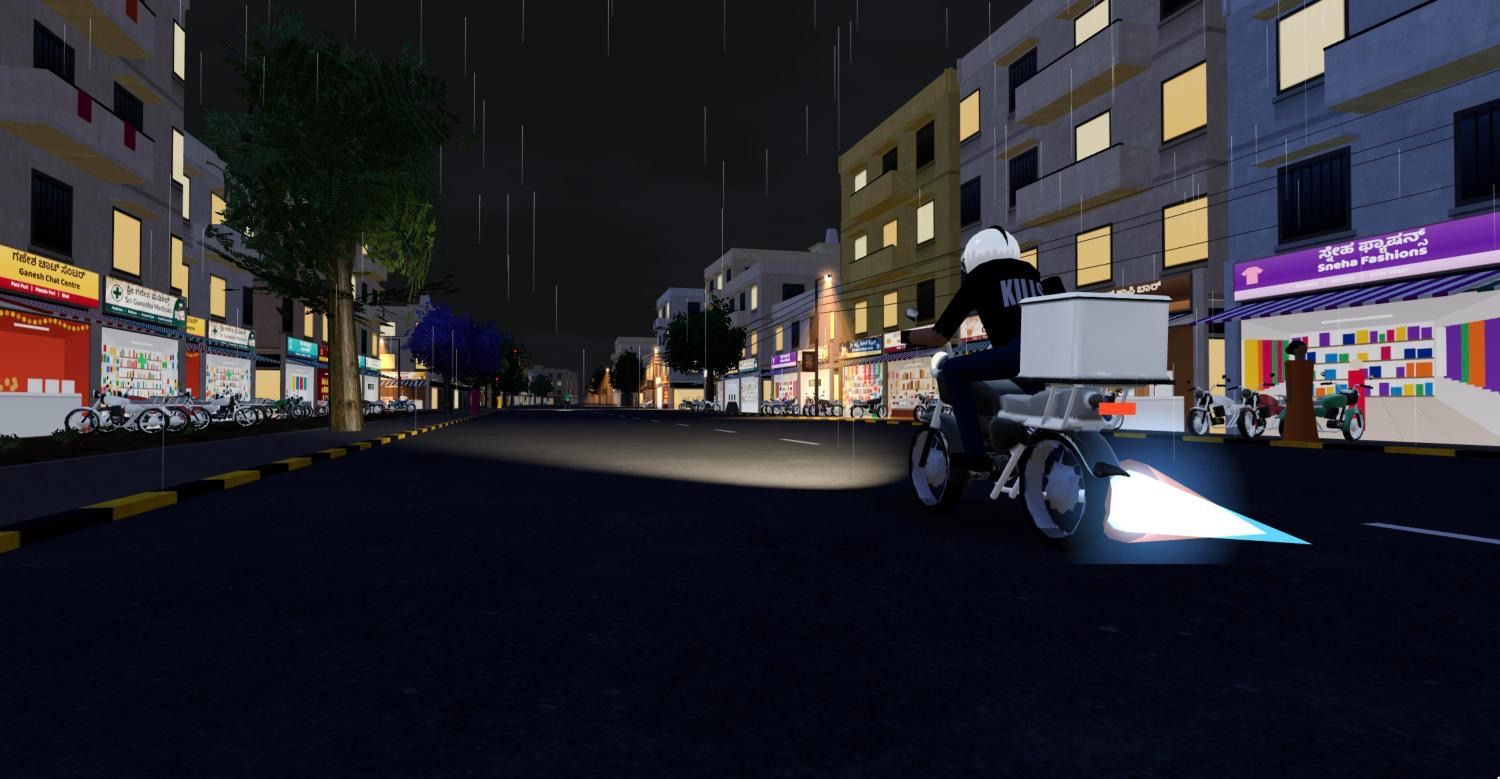
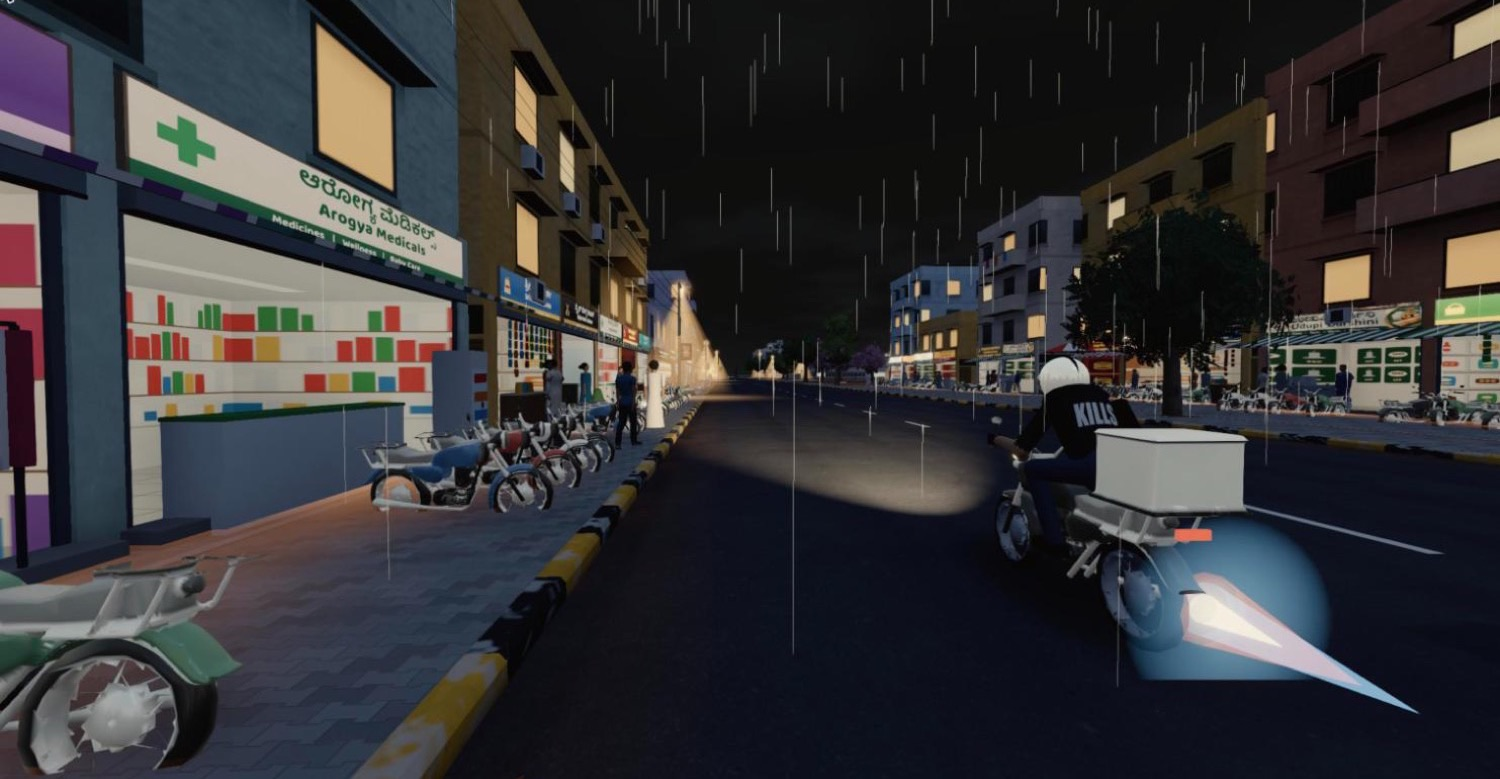
feat: add scooter rider model and Indian traffic vehicles with improved building variety and city kit placement

diff --git a/src/world/ShopPeople.tsx b/src/world/ShopPeople.tsx
@@ -1,9 +1,13 @@
-import { useEffect, useMemo } from 'react'
+import { useEffect, useMemo, useRef, useState } from 'react'
+import { useFrame } from '@react-three/fiber'
 import { useGLTF } from '@react-three/drei'
 import { getModel, TRAFFIC_MODELS_URL } from '../traffic/modelFiles'
 import { createWomanGeometry } from '../traffic/peopleShapes'
 import { People } from '../traffic/Traffic'
 import type { Pedestrian } from '../traffic/trafficLogic'
+import { livePlayer } from '../game/livePlayer'
+import { useGameStore } from '../game/gameStore'
+import { QUALITY_PRESETS } from '../game/qualitySettings'
 import type { ShopPerson } from './shopPeoplePlacement'
 
 /*
@@ -13,8 +17,22 @@ import type { ShopPerson } from './shopPeoplePlacement'
  * and sway, by the same shader as the walkers (`People` in Traffic.tsx).
  *
  * Only on the streets with the new ground for now (27th Main), so there are a
- * few dozen, not thousands: each is redrawn every frame.
+ * few dozen, not thousands: each is redrawn every frame. Even so, a person
+ * model is thousands of triangles, so only those near the rider are drawn: the
+ * list is picked again whenever the rider has moved `REFRESH` metres.
  */
+
+/** People are drawn this near the rider, in metres; on Low, nearer. */
+const REACH = 70
+const LOW_REACH = 45
+const REFRESH = 12
+
+type Seen = { x: number; z: number; reach: number }
+
+/** Whether the rider has moved far enough, or the reach changed, to pick again. */
+function hasMoved(seen: Seen, reach: number): boolean {
+  return seen.reach !== reach || Math.hypot(livePlayer.x - seen.x, livePlayer.z - seen.z) > REFRESH
+}
 
 function toPedestrian({ x, z, heading, tint, skin }: ShopPerson): Pedestrian {
   return {
@@ -46,7 +64,15 @@ export function ShopPeople({ people }: { people: ShopPerson[] }) {
   const woman = useMemo(() => createWomanGeometry(), [])
   const bodies = useMemo(() => [getModel(scene, 'man'), getModel(scene, 'teen'), woman], [scene, woman])
   useEffect(() => () => woman.dispose(), [woman])
-  const groups = useMemo(() => [0, 1, 2].map((body) => people.filter((person) => person.body === body).map(toPedestrian)), [people])
+  const reach = useGameStore((state) => (QUALITY_PRESETS[state.quality].kitDetail === 0 ? LOW_REACH : REACH))
+  const seen = useRef<Seen>({ x: Infinity, z: Infinity, reach: 0 })
+  const [near, setNear] = useState<ShopPerson[]>([])
+  useFrame(() => {
+    if (!hasMoved(seen.current, reach)) return
+    seen.current = { x: livePlayer.x, z: livePlayer.z, reach }
+    setNear(people.filter((person) => Math.hypot(person.x - livePlayer.x, person.z - livePlayer.z) < reach))
+  })
+  const groups = useMemo(() => [0, 1, 2].map((body) => near.filter((person) => person.body === body).map(toPedestrian)), [near])
   return (
     <>
       {groups.map((items, body) => (items.length > 0 ? <People key={body} items={items} body={bodies[body]} /> : null))}

diff --git a/src/sky/Sky.tsx b/src/sky/Sky.tsx
@@ -72,9 +72,10 @@ const FRAGMENT_SHADER = /* glsl */ `
   void main() {
     vec3 direction = normalize(vDirection);
     float height = max(direction.y, 0.0);
-    vec3 color = mix(uHorizon, uZenith, pow(height, 0.55));
-
     float clearSky = 1.0 - smoothstep(0.35, 0.95, uClouds);
+    // Under a clear sky the blue comes further down, so the sky a rider sees is blue
+    // above a warm haze at the horizon; under cloud it stays pale lower down.
+    vec3 color = mix(uHorizon, uZenith, pow(height, mix(0.55, 0.36, clearSky)));
 
     // A star is a rare grid cell on the dome that passes a random test.
     float star = step(0.9985, hash(floor(direction * 420.0)));
@@ -138,7 +139,6 @@ const NIGHT_ICON_LEVEL = 0.5
 export function Sky() {
   const { skyClouds, rainDrops } = useGameStore((state) => QUALITY_PRESETS[state.quality])
   const state = useRef(createSkyState())
-  Object.assign(window, { __sky: state.current }) // TEMP-DEBUG
   const dome = useRef<THREE.Mesh>(null)
   const drift = useRef(0)
 

diff --git a/src/App.tsx b/src/App.tsx
@@ -20,7 +20,6 @@ import { TitleScreen } from './ui/TitleScreen'
 import { useResolution } from './game/resolution'
 import { AdaptiveResolution } from './world/AdaptiveResolution'
 import { PostEffects } from './world/PostEffects'
-import { DebugRig } from './dev/DebugRig' // TEMP-DEBUG
 import { ViewDistance } from './world/ViewDistance'
 import { World } from './world/World'
 
@@ -79,7 +78,6 @@ function App() {
           <ViewDistance />
           <AdaptiveResolution />
           <PostEffects />
-          {import.meta.env.DEV && <DebugRig />} {/* TEMP-DEBUG */}
           {buildWorld && (
             <Suspense fallback={null}>
               <World />

diff --git a/src/ui/TitleScreen.tsx b/src/ui/TitleScreen.tsx
@@ -18,7 +18,7 @@ const KEYBOARD_CONTROLS = [
 const SCREENSHOTS = [
   { src: '/title/shop-street-morning.jpg', caption: 'Morning on 27th Main Road' },
   { src: '/title/nitro-night-rain.jpg', caption: 'Nitro through the rain, after dark' },
-  { src: '/title/midday-handover.jpg', caption: 'A happy customer' },
+  { src: '/title/midday-handover.jpg', caption: 'Pulling up at the chaat centre, midday' },
 ]
 /** How long each screenshot stays, in milliseconds. */
 const SCREENSHOT_TIME = 7000

diff --git a/src/vehicle/Player.tsx b/src/vehicle/Player.tsx
@@ -43,7 +43,6 @@ export function Player({ stores, collisions, graph, traffic, surface, bunks, spa
   const started = useGameStore((state) => state.started)
   const scooter = useRef<Group>(null)
   const scooterState = useRef(createScooterState())
-  Object.assign(window, { __scooter: scooterState.current }) // TEMP-DEBUG
   useEffect(() => {
     if (spawn) placeAt(scooterState.current, spawn)
     const { x, z } = scooterState.current
